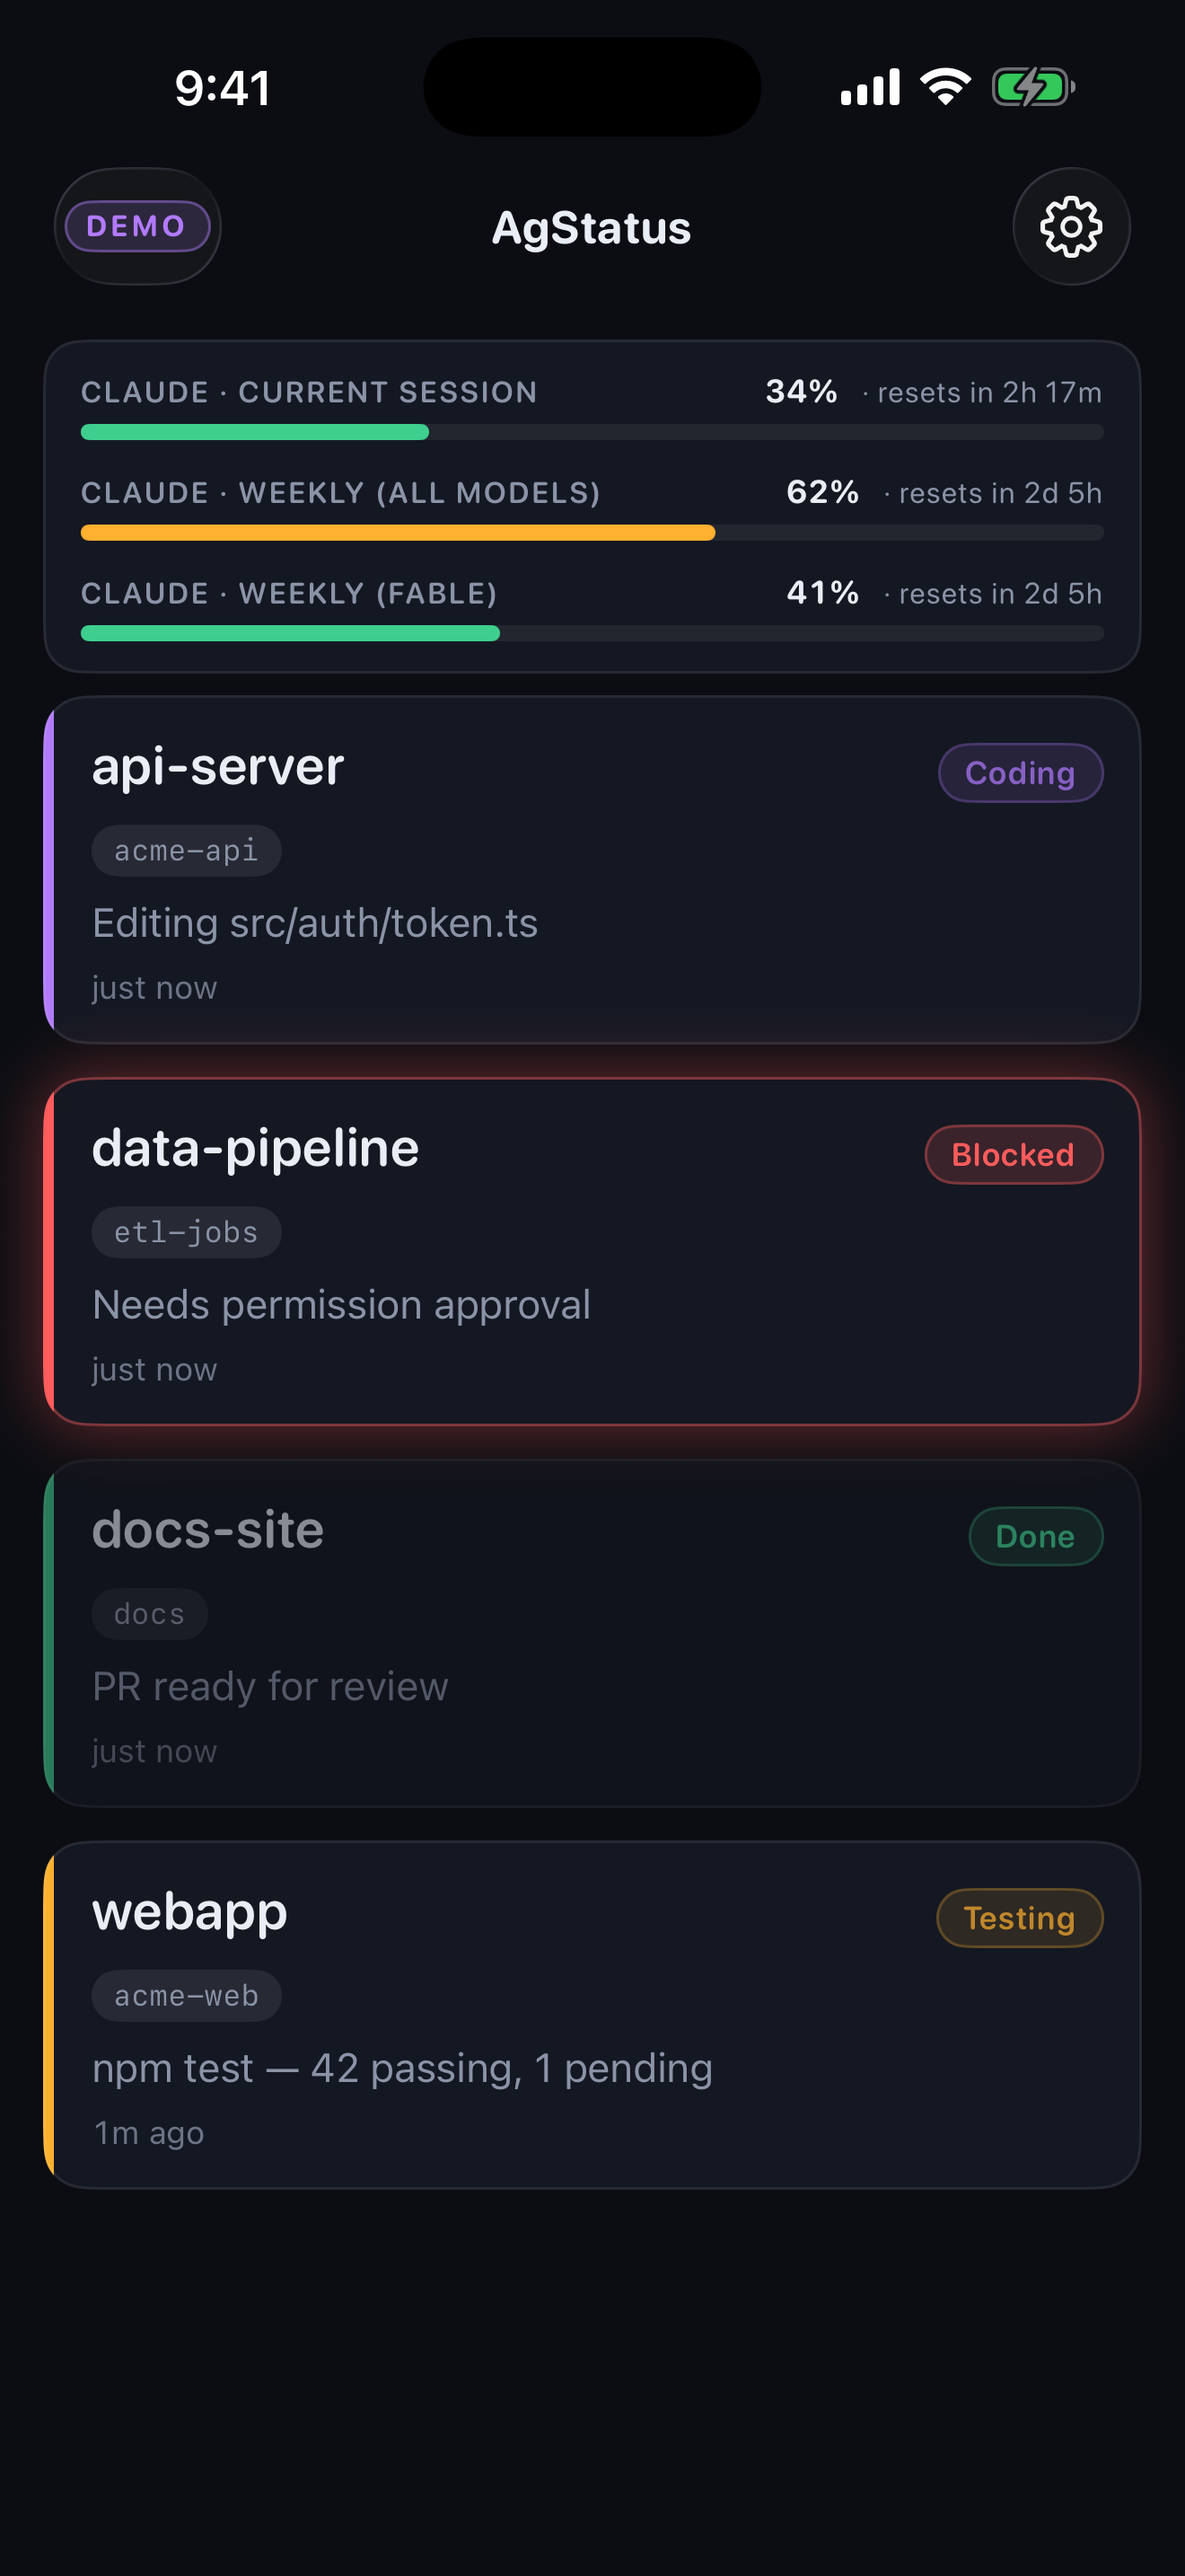
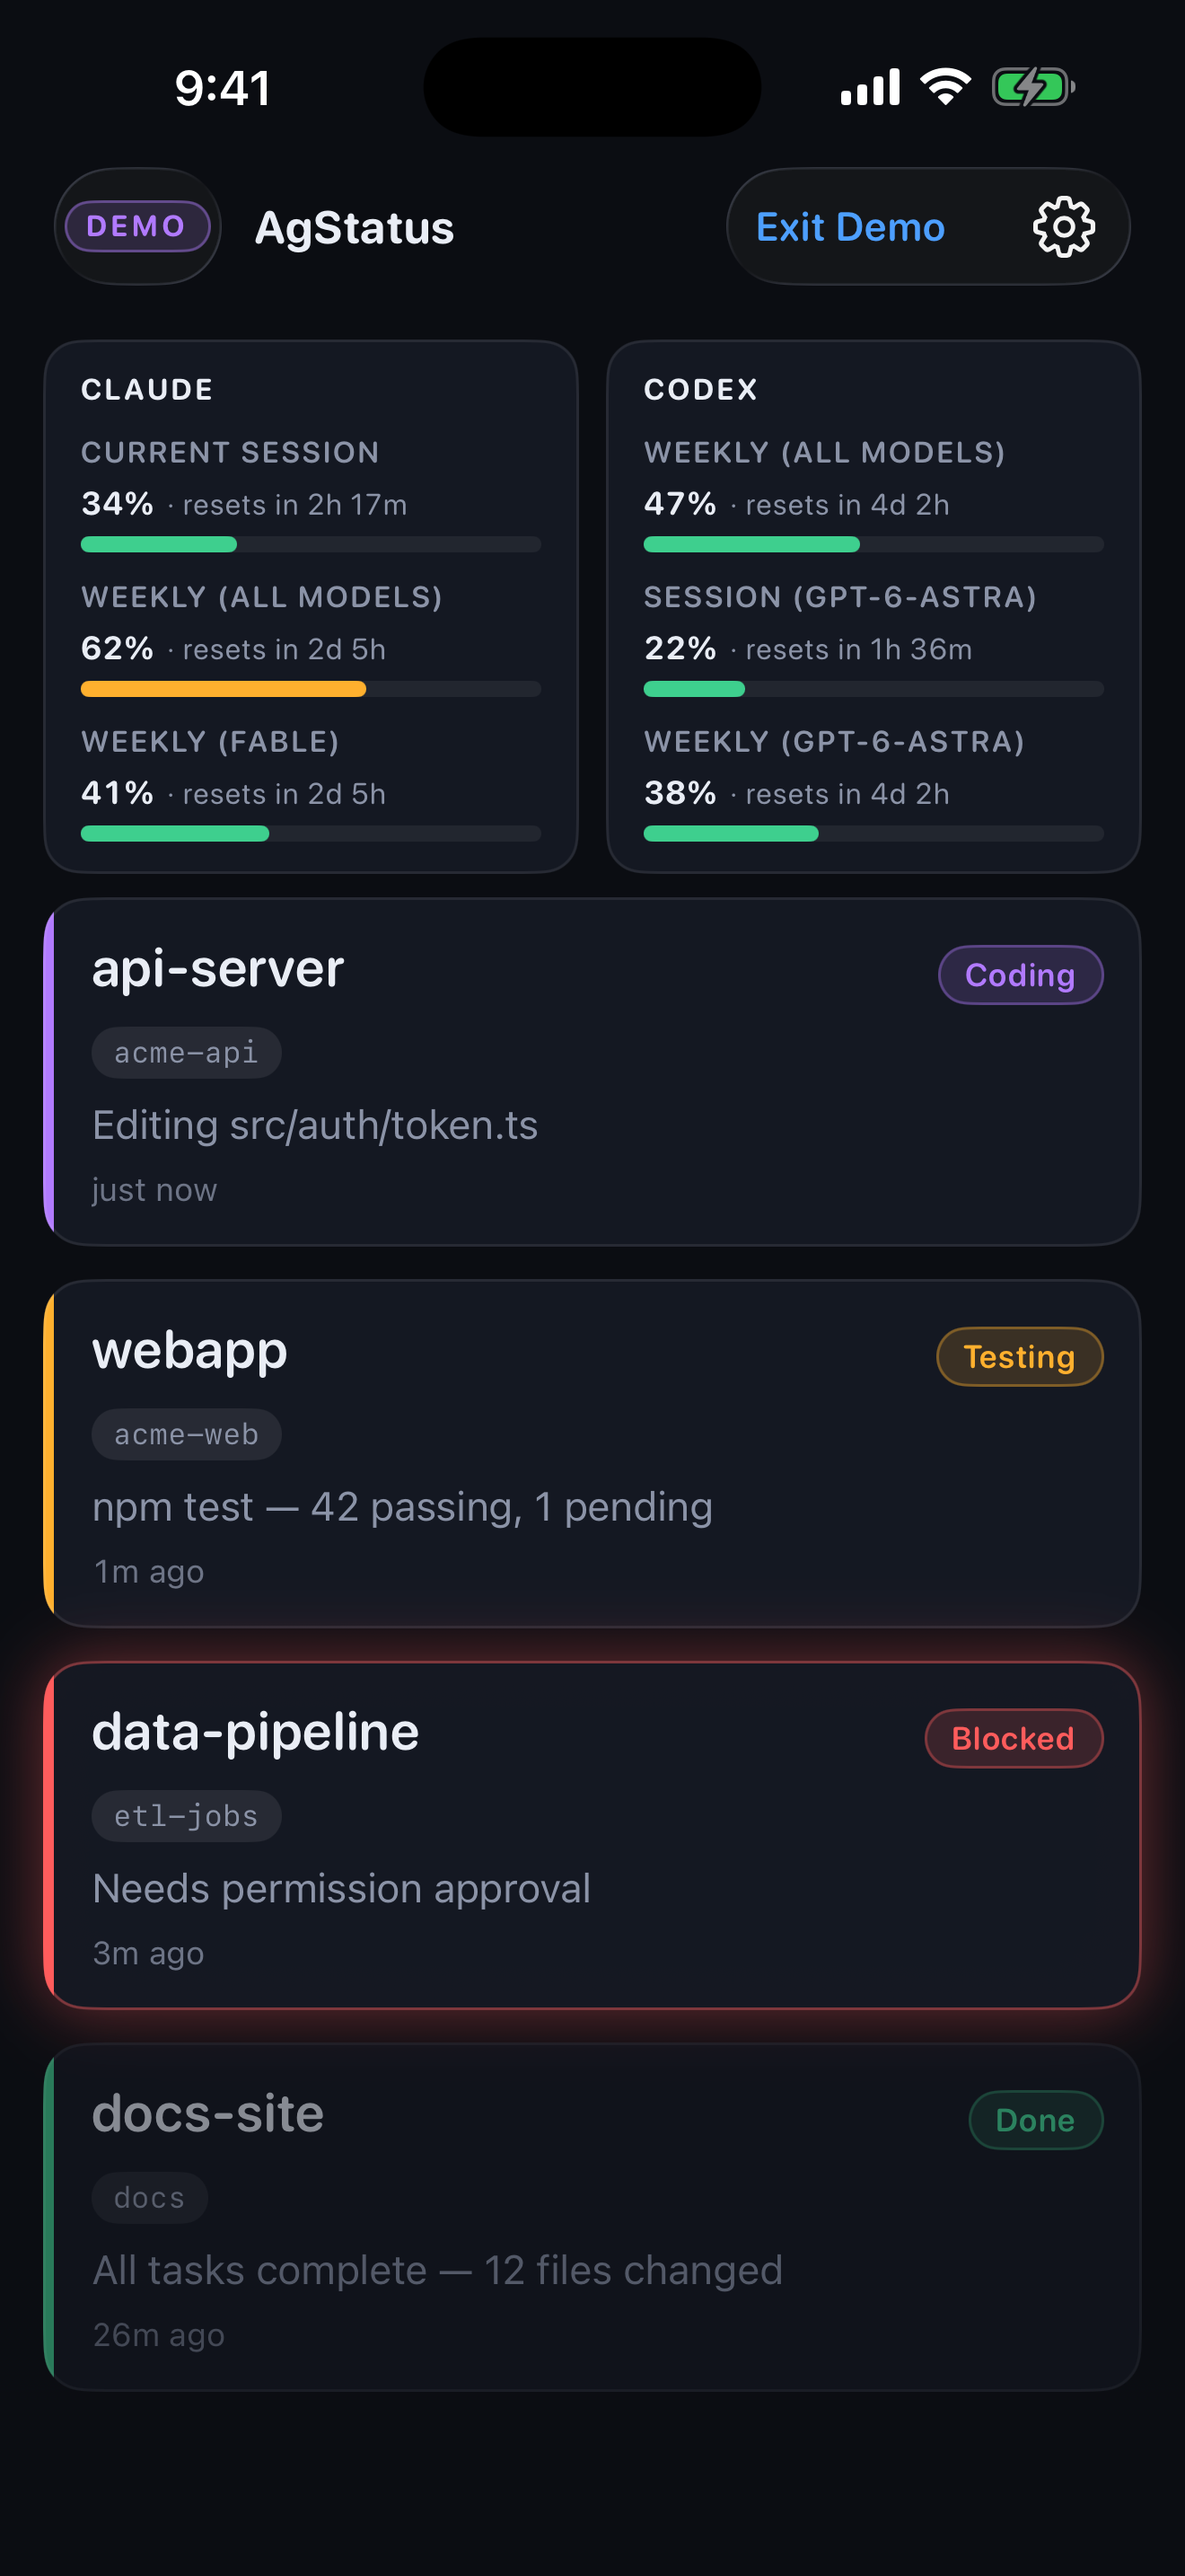
Document the iOS submission flow, and refresh the 6.9" screenshots
SUBMITTING.md covers the whole path: version checks, screenshots, the
existing scripts/upload-ios-build.sh, the App Store Connect metadata, and
which review notes to carry over.

The screenshot README claimed the app was iPhone-only and needed no iPad
images. That stopped being true in 1.2.0, when TARGETED_DEVICE_FAMILY
became "1,2" — App Store Connect will not accept a universal app's version
without an iPad set, so the claim would have blocked a submission.

Also documents AGSTATUS_OPEN_USAGE=<source>, the third screenshot deep
link, and two timing details: the board must be captured a couple of
seconds after launch before demo mode ticks the sessions out of their
coding / testing / blocked / done spread, and simctl cannot overwrite an
existing PNG — it fails on the extended attributes and silently leaves the
old image in place.

6.9" set recaptured against 1.3.0: the board now shows per-agent limit
blocks, plus a new 04-usage.png for the detail screen. The 6.5" and iPad
sets still need capturing.

diff --git a/docs/appstore/SUBMITTING.md b/docs/appstore/SUBMITTING.md
@@ -1,0 +1,143 @@
+# Submitting a new iOS version
+
+The mechanical parts are scripted; the parts that need a human are the
+metadata and the review notes. This is the order that works.
+
+Written while preparing **1.3.0 (build 4)**. Version numbers below are that
+release; everything else is reusable.
+
+## 0. Before you start
+
+Confirm the build you are about to ship is the one in `master`, and that the
+version numbers were bumped:
+
+```bash
+git -C . status --short          # must be clean
+grep -m1 MARKETING_VERSION ios/AgStatus.xcodeproj/project.pbxproj
+grep -m1 CURRENT_PROJECT_VERSION ios/AgStatus.xcodeproj/project.pbxproj
+```
+
+`CURRENT_PROJECT_VERSION` must be higher than any build already uploaded for
+this marketing version — App Store Connect rejects a repeat. 1.2.0 shipped as
+build 3, so 1.3.0 starts at 4.
+
+These are already correct and need no thought each release:
+
+| Setting | Value | Why it matters |
+| --- | --- | --- |
+| `PRODUCT_BUNDLE_IDENTIFIER` | `com.kardanov.agstatus` | Immutable since the first upload |
+| `DEVELOPMENT_TEAM` | `KKS5T5ZN3Y` | Matches `ios/ExportOptions.plist` |
+| `TARGETED_DEVICE_FAMILY` | `1,2` | iPhone **and** iPad — see the screenshot note below |
+| `ITSAppUsesNonExemptEncryption` | `false` in `Info.plist` | Skips the export-compliance question on every upload |
+| `aps-environment` | `$(APS_ENVIRONMENT)` | Release builds get `production`; the upload script verifies this in the exported profile |
+
+## 1. Refresh the screenshots
+
+**Do not skip this when the UI changed.** App Store Connect keeps the previous
+version's images, so a stale set ships silently.
+
+For 1.3.0 the board itself changed (limits are now grouped per agent) and there
+is a whole new screen, so every existing image is out of date.
+
+See [README.md](README.md) for the capture commands. The short version:
+
+```bash
+# build once, then install into each screenshot simulator
+xcodebuild -project ios/AgStatus.xcodeproj -scheme AgStatus \
+  -destination "id=$DEV" CODE_SIGN_STYLE=Automatic build
+APP=$(find ~/Library/Developer/Xcode/DerivedData/AgStatus-*/Build/Products/Debug-iphonesimulator \
+  -maxdepth 1 -name AgStatus.app | head -1)
+xcrun simctl install "$DEV" "$APP"
+xcrun simctl status_bar "$DEV" override --time "9:41" --batteryState charged \
+  --batteryLevel 100 --cellularMode active --cellularBars 4 --wifiBars 3 --dataNetwork wifi
+
+# each screen is reachable through a DEBUG-only launch variable
+SIMCTL_CHILD_AGSTATUS_DEMO=1 xcrun simctl launch --terminate-running-process "$DEV" com.kardanov.agstatus
+SIMCTL_CHILD_AGSTATUS_DEMO=1 SIMCTL_CHILD_AGSTATUS_OPEN_USAGE=claude \
+  xcrun simctl launch --terminate-running-process "$DEV" com.kardanov.agstatus
+SIMCTL_CHILD_AGSTATUS_DEMO=1 SIMCTL_CHILD_AGSTATUS_OPEN_HISTORY=1 \
+  xcrun simctl launch --terminate-running-process "$DEV" com.kardanov.agstatus
+```
+
+Always capture in **demo mode** — nothing personal appears and the board is
+populated without a paired machine.
+
+**iPad screenshots are required.** The app became universal in 1.2.0
+(`TARGETED_DEVICE_FAMILY = 1,2`), and App Store Connect will not let a
+universal app's version be submitted without an iPad set. Capture on an
+iPad Pro 13" simulator alongside the phone sizes.
+
+## 2. Archive, export and upload
+
+One script does all three:
+
+```bash
+scripts/upload-ios-build.sh
+```
+
+It archives Release, exports with `ios/ExportOptions.plist`, prints the
+`aps-environment` baked into the exported profile (it must say `production`),
+then validates and uploads.
+
+Uploading needs an App Store Connect API key:
+
+```bash
+export ASC_KEY_ID=XXXXXXXXXX          # the AuthKey_<THIS>.p8 part
+export ASC_ISSUER_ID=aaaaaaaa-bbbb-…  # shown above the key list
+```
+
+Without those two the script still archives and exports, then stops and prints
+the `.ipa` path so you can drag it into Transporter instead.
+
+Processing takes 5–15 minutes. The build then appears under TestFlight and in
+the version's **Build** section.
+
+## 3. Fill in the version in App Store Connect
+
+Create the new version (**+ Version or Platform** → `1.3.0`), then:
+
+- **What's New** — required for every update. The Play copy in
+  `distribution/google-play/listing/whats-new.txt` is written for the same
+  release and reads well here with light edits.
+- **Screenshots** — upload the refreshed sets, iPhone and iPad. The first image
+  is what appears in search results.
+- **Build** — select the build you just uploaded.
+- **App Review Information → Notes** — see below.
+
+Nothing else needs revisiting for a feature release: the description, keywords,
+category, age rating, and the privacy answers all carry over. The privacy
+answers in particular stay correct — the app only ever *reads* a board, and
+anything new it displays is reported by the hook on the user's own machine.
+
+## 4. Review notes
+
+Keep the notes from the previous submission; they answer the questions this app
+reliably attracts. The full text is in
+`~/Desktop/claude-status-private/appstore-resubmission.md` — it explains that
+
+- there are **no accounts or credentials**, so no demo login exists;
+- the app is a **companion viewer for a web service**, not a hardware
+  accessory (a reviewer raised this on 1.2.0 and it needed rebutting);
+- the QR code encodes a **board URL** — scanning it is the same as typing a
+  link.
+
+Two ways for a reviewer to see a populated app, and both should be offered:
+
+1. **Demo mode** — "Try the demo" on the welcome screen. No network, no setup.
+   This now covers the new usage screen too: history and per-project rows are
+   synthesised locally, so the whole feature is reachable offline.
+2. **The demo board QR** — `appreview-board-qr.png` in the private folder,
+   attached under App Review Information → Attachments.
+
+> **Keep the keepalive cron running until this version is approved.**
+> Multi-tenant sessions expire after 24 hours, so the demo board empties
+> without `appreview-keepalive.sh` (6-hourly on the mini PC). It is only safe
+> to remove once there is no submission in flight.
+
+## 5. Submit, then afterwards
+
+Submit for review. When it is approved and released:
+
+- Remove the keepalive cron from the mini PC (`crontab -e`) if you are not
+  going straight into another submission.
+- Note the build number that shipped, so the next release starts above it.

diff --git a/docs/appstore/README.md b/docs/appstore/README.md
@@ -1,5 +1,7 @@
 # App Store screenshots
 
+For the whole submission flow, see [SUBMITTING.md](SUBMITTING.md).
+
 Captured from the iOS Simulator in **demo mode**, so nothing personal appears
 and the board is populated without needing a paired machine.
 
@@ -12,27 +14,33 @@ Captured natively on an iPhone 14 Plus simulator (no scaling or cropping).
 
 `6.9/` — **1320 × 2868**, for the 6.9" slot when App Store Connect offers it.
 
-The app is iPhone-only (`TARGETED_DEVICE_FAMILY = 1`), so no iPad screenshots
-are required.
+`ipad/` — **2064 × 2752**, captured on an iPad Pro 13". The app became
+universal in 1.2.0 (`TARGETED_DEVICE_FAMILY = 1,2`), and App Store Connect
+will not accept a universal app's version without an iPad set — this used to
+say no iPad screenshots were needed, which stopped being true.
 
 Upload in this order — the first one is what people see in search results:
 
 | # | File | Shows |
 | --- | --- | --- |
-| 1 | `02-board.png` | The live board: plan-limit bars and four sessions across coding / blocked / done / testing |
-| 2 | `03-history.png` | A session timeline, every status change timestamped |
-| 3 | `01-welcome.png` | Setup options and "Try the demo" — no account required |
+| 1 | `02-board.png` | The live board: per-agent limit blocks and four sessions across coding / blocked / done / testing |
+| 2 | `04-usage.png` | Usage detail: tokens per day, the plan limit charted over it, and spend per project |
+| 3 | `03-history.png` | A session timeline, every status change timestamped |
+| 4 | `01-welcome.png` | Setup options and "Try the demo" — no account required |
 
 ## Regenerating
 
 The status bar is Apple's canonical 9:41 with full battery and signal, set via
-`simctl status_bar override`. The history screen has no launch argument and
-cannot be tapped by `simctl`, so a DEBUG-only deep link opens it
-(`AGSTATUS_OPEN_HISTORY=1`, see `BoardView.openHistoryForScreenshots()`).
+`simctl status_bar override`. `simctl` cannot synthesise taps, so the screens
+behind a tap are opened by DEBUG-only launch variables (see
+`BoardView.openHistoryForScreenshots()`): `AGSTATUS_OPEN_HISTORY=1` for a
+session timeline, and `AGSTATUS_OPEN_USAGE=<source>` — `claude` or `codex` —
+for that agent's usage detail.
 
 ```bash
 # 6.5" (1284x2778) — the size App Store Connect asks for.
-# For 6.9" (1320x2868) use an iPhone 16/17 Pro Max device type instead.
+# For 6.9" (1320x2868) use an iPhone 16/17 Pro Max device type instead;
+# for iPad, an iPad Pro 13" (2064x2752).
 DEV=$(xcrun simctl create "AgStatus-6.5" \
   com.apple.CoreSimulator.SimDeviceType.iPhone-14-Plus \
   com.apple.CoreSimulator.SimRuntime.iOS-26-5)
@@ -49,7 +57,26 @@ xcrun simctl io "$DEV" screenshot 6.5/02-board.png
 SIMCTL_CHILD_AGSTATUS_DEMO=1 SIMCTL_CHILD_AGSTATUS_OPEN_HISTORY=1 \
   xcrun simctl launch --terminate-running-process "$DEV" com.kardanov.agstatus
 xcrun simctl io "$DEV" screenshot 6.5/03-history.png
+
+# usage detail
+SIMCTL_CHILD_AGSTATUS_DEMO=1 SIMCTL_CHILD_AGSTATUS_OPEN_USAGE=claude \
+  xcrun simctl launch --terminate-running-process "$DEV" com.kardanov.agstatus
+xcrun simctl io "$DEV" screenshot 6.5/04-usage.png
 ```
+
+For the iPad set, create the device from
+`com.apple.CoreSimulator.SimDeviceType.iPad-Pro-13-inch-M5-12GB` and write into
+`ipad/` instead.
+
+Two timing details, both learned the hard way:
+
+- **Capture the board ~2.5s after launch.** Demo mode ticks the sessions
+  through plausible transitions, so waiting longer collapses the
+  coding / testing / blocked / done spread into whatever it drifted to.
+- **`simctl` cannot overwrite an existing screenshot** — it fails with
+  "You don't have permission to save the file" because of the extended
+  attributes on the committed PNGs. `rm` the target first, or the capture
+  silently leaves the old image in place.
 
 Install the app on a simulator that has never run it to get the welcome screen —
 otherwise the saved board sends you straight to the board.
